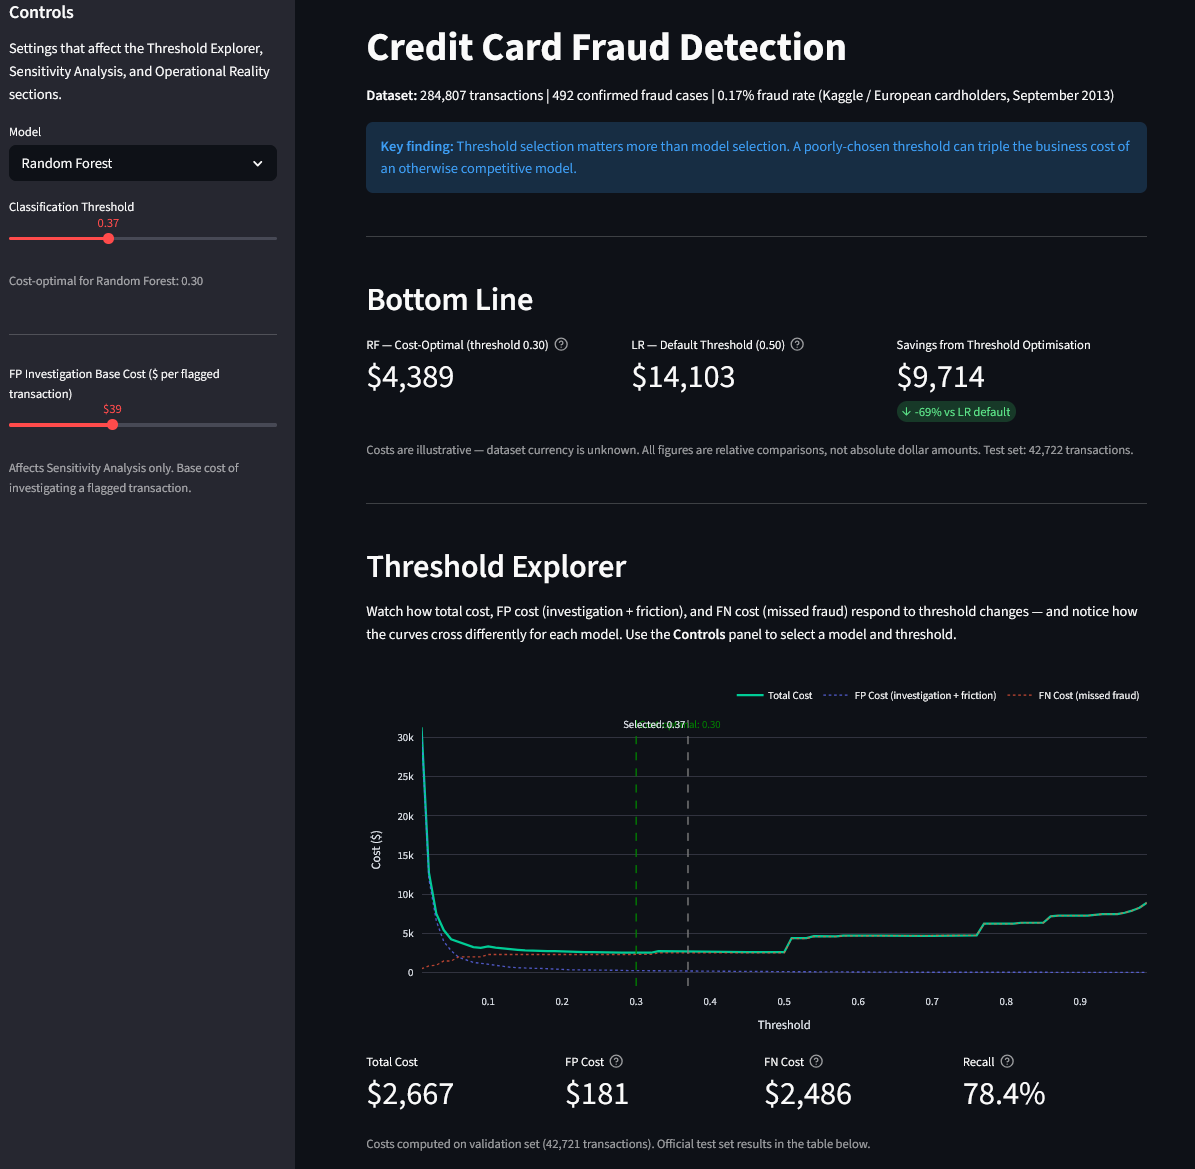
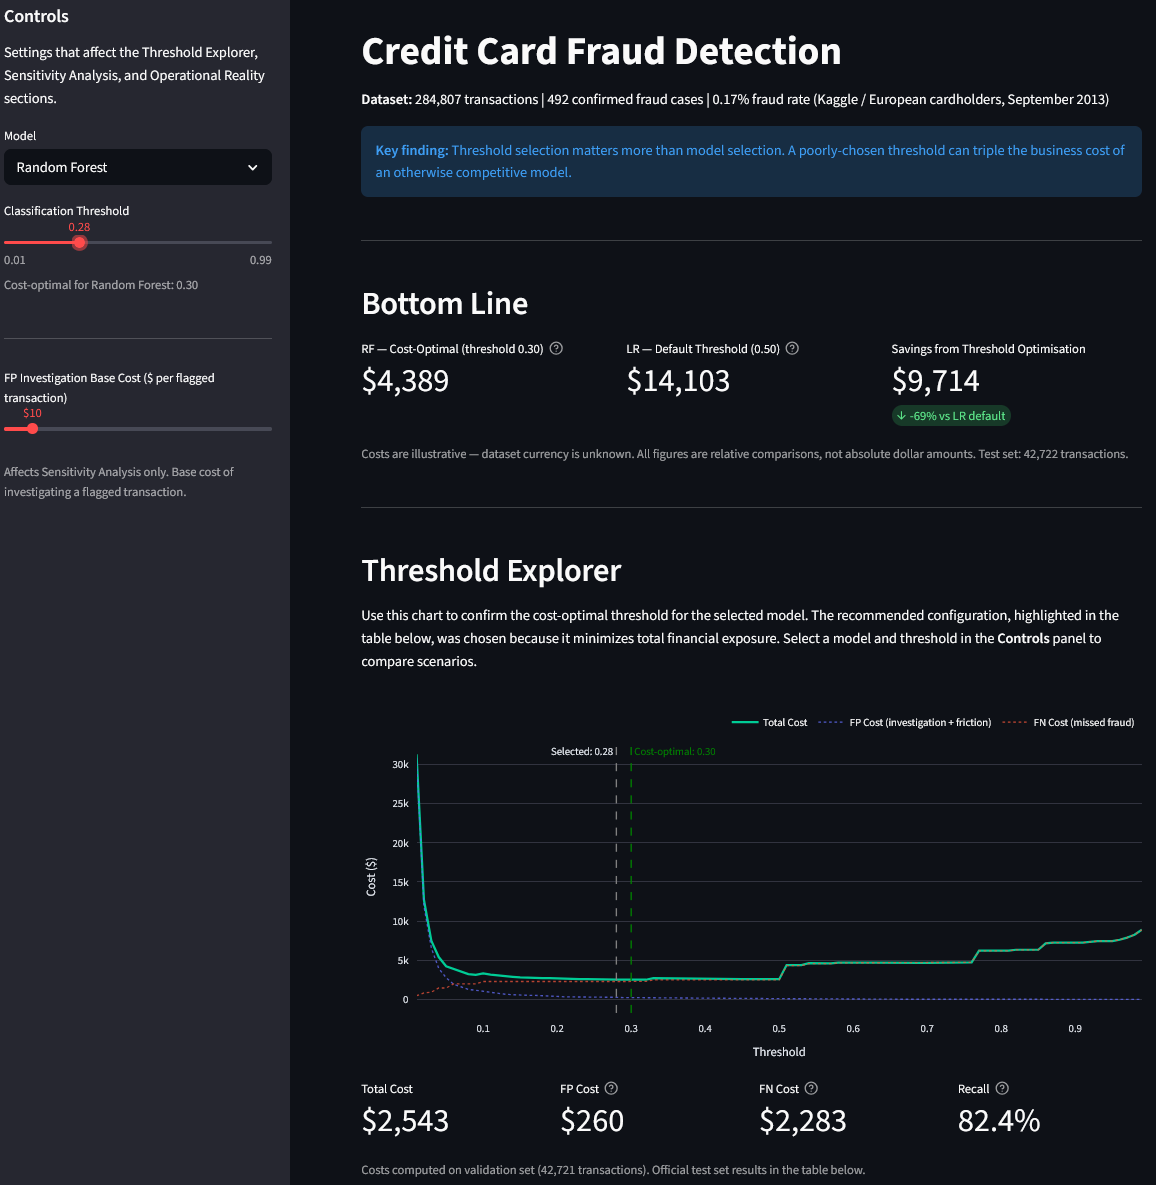
Reframe dashboard and README copy toward business recommendations
Threshold Explorer and Sensitivity Analysis sections now lead with
findings and decisions rather than analytical exploration. README
Dashboard blurbs updated to match; Phase 2 intro gains a framing
sentence before the cost model table.

diff --git a/app.py b/app.py
@@ -193,9 +193,9 @@ st.divider()
 # ============================================================
 st.header("Threshold Explorer")
 st.markdown(
-    "Watch how total cost, FP cost (investigation + friction), and FN cost (missed fraud) "
-    "respond to threshold changes -- and notice how the curves cross differently for each model. "
-    "Use the **Controls** panel to select a model and threshold."
+    "Use this chart to confirm the cost-optimal threshold for the selected model. "
+    "The recommended configuration, highlighted in the table below, was chosen because it minimizes total financial exposure. "
+    "Select a model and threshold in the **Controls** panel to compare scenarios."
 )
 
 t_arr, total_c, fp_c, fn_c, n_fp_arr, n_fn_arr, recall_arr = sweep_arrays(selected_model)
@@ -313,8 +313,9 @@ st.divider()
 # ============================================================
 st.header("Sensitivity Analysis")
 st.markdown(
-    "How sensitive is the recommendation to the assumed investigation cost per false positive? "
-    "Adjust **FP Investigation Base Cost** in the Controls panel to explore."
+    "A key concern before deploying any model is whether the recommendation depends heavily on cost assumptions we cannot verify precisely. "
+    "It doesn't. Random Forest remains the preferred choice regardless of investigation cost. "
+    "Adjust **FP Investigation Base Cost** in the Controls panel to confirm."
 )
 
 s_cols = st.columns(3)
@@ -348,9 +349,9 @@ fig_s.update_layout(
 )
 st.plotly_chart(fig_s, width='stretch')
 st.caption(
-    "RF remains the lowest-cost model across the full $1-$100 range. "
-    "The optimal threshold shifts from 0.30 to 0.50 only when investigation costs "
-    "exceed ~$25, confirming the framework is robust to reasonable assumption variation."
+    "Random Forest delivers the lowest total cost across the full $1-$100 investigation cost range. "
+    "The recommendation is robust: the optimal threshold shifts only when investigation costs exceed approximately $25, "
+    "well outside the range of realistic operational assumptions."
 )
 st.divider()
 

diff --git a/README.md b/README.md
@@ -43,11 +43,11 @@ An interactive Streamlit dashboard surfaces the Phase 2 business findings for a 
 
 ![Dashboard overview — header, bottom line, and threshold explorer](assets/dashboard_overview.png)
 
-**Threshold Explorer** — drag the threshold and watch total cost, FP cost, and FN cost update live. The crossover point where investigation costs outweigh missed-fraud losses is visible directly on the chart.
+**Threshold Explorer** — confirms the cost-optimal threshold for any model, showing exactly where investigation costs outweigh missed-fraud losses. The recommended configuration minimizes total financial exposure; drag the threshold to compare alternatives directly.
 
 ![Model comparison table](assets/dashboard_model_comparison.png)
 
-**Sensitivity Analysis** — adjust the assumed investigation cost per false positive ($1–$100) to test how robust the recommendation is. RF remains the lowest-cost model across the full range; the optimal threshold shifts by only 0.20 even as investigation cost quadruples.
+**Sensitivity Analysis** — the recommendation holds across the full $1–$100 investigation cost range. Random Forest remains the lowest-cost model regardless of assumption; the optimal threshold shifts by only 0.20 even as investigation cost quadruples. Adjust the assumption in the Controls panel to confirm.
 
 ![Sensitivity analysis and operational reality](assets/dashboard_sensitivity.png)
 
@@ -98,6 +98,8 @@ but flags too many legitimate transactions, collapsing F1 to 0.51.
 ## Phase 2 — Cost-Sensitive Decision Framework
 
 ### Cost Model
+
+The framework translates model outputs into a business decision: given a predicted probability of fraud, what classification threshold minimizes total cost to the business? Each error type carries a specific cost, and the optimal threshold is the point where those costs are balanced.
 
 > **All figures are illustrative.** The dataset currency is unknown and amounts
 > are anonymized. Cost calculations should be interpreted as relative comparisons,
